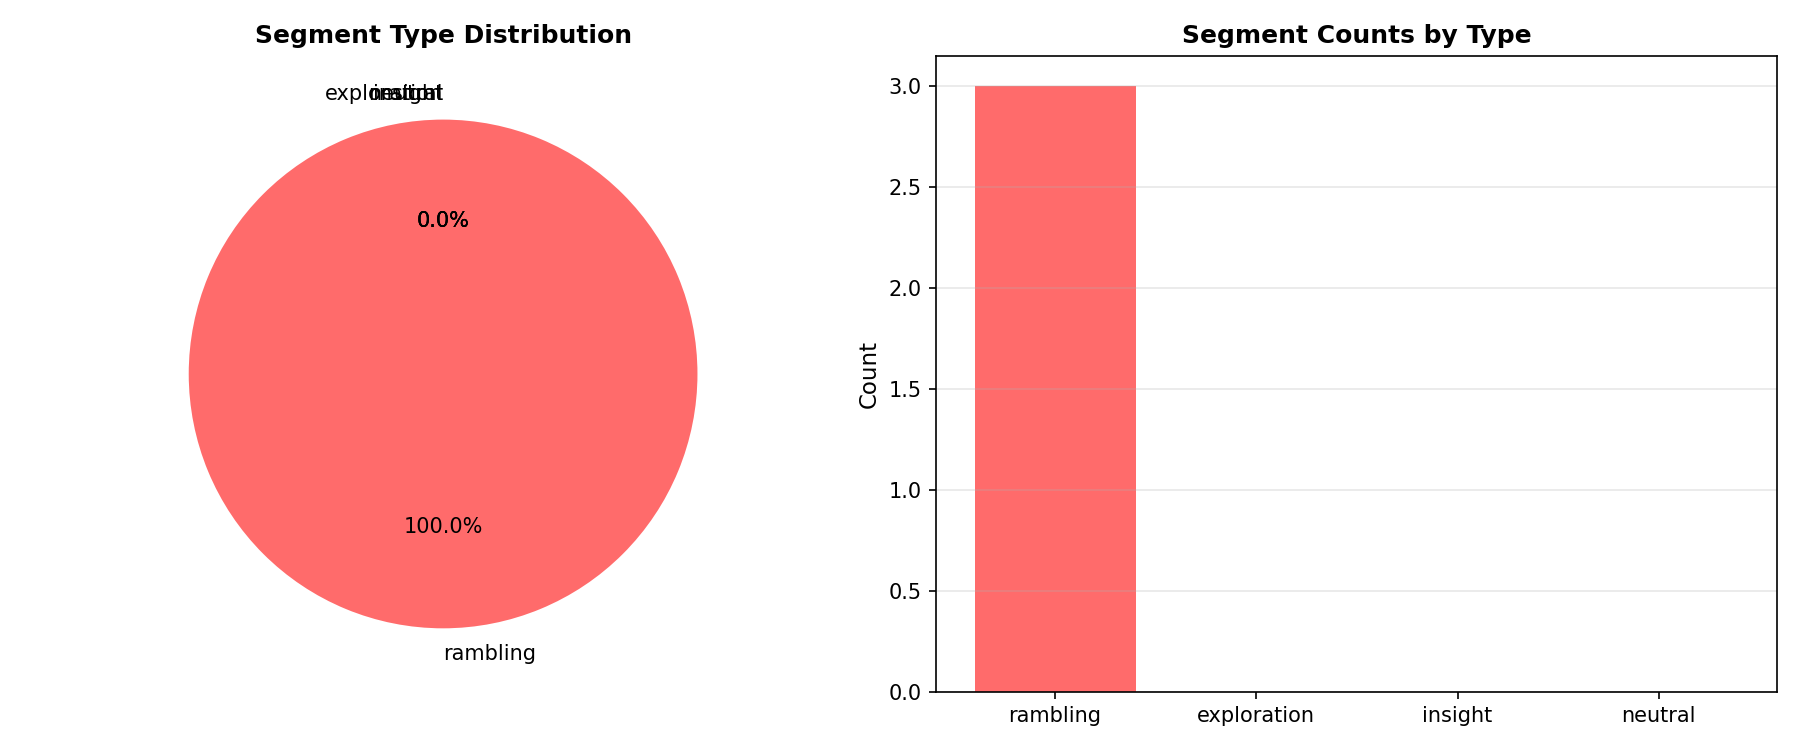
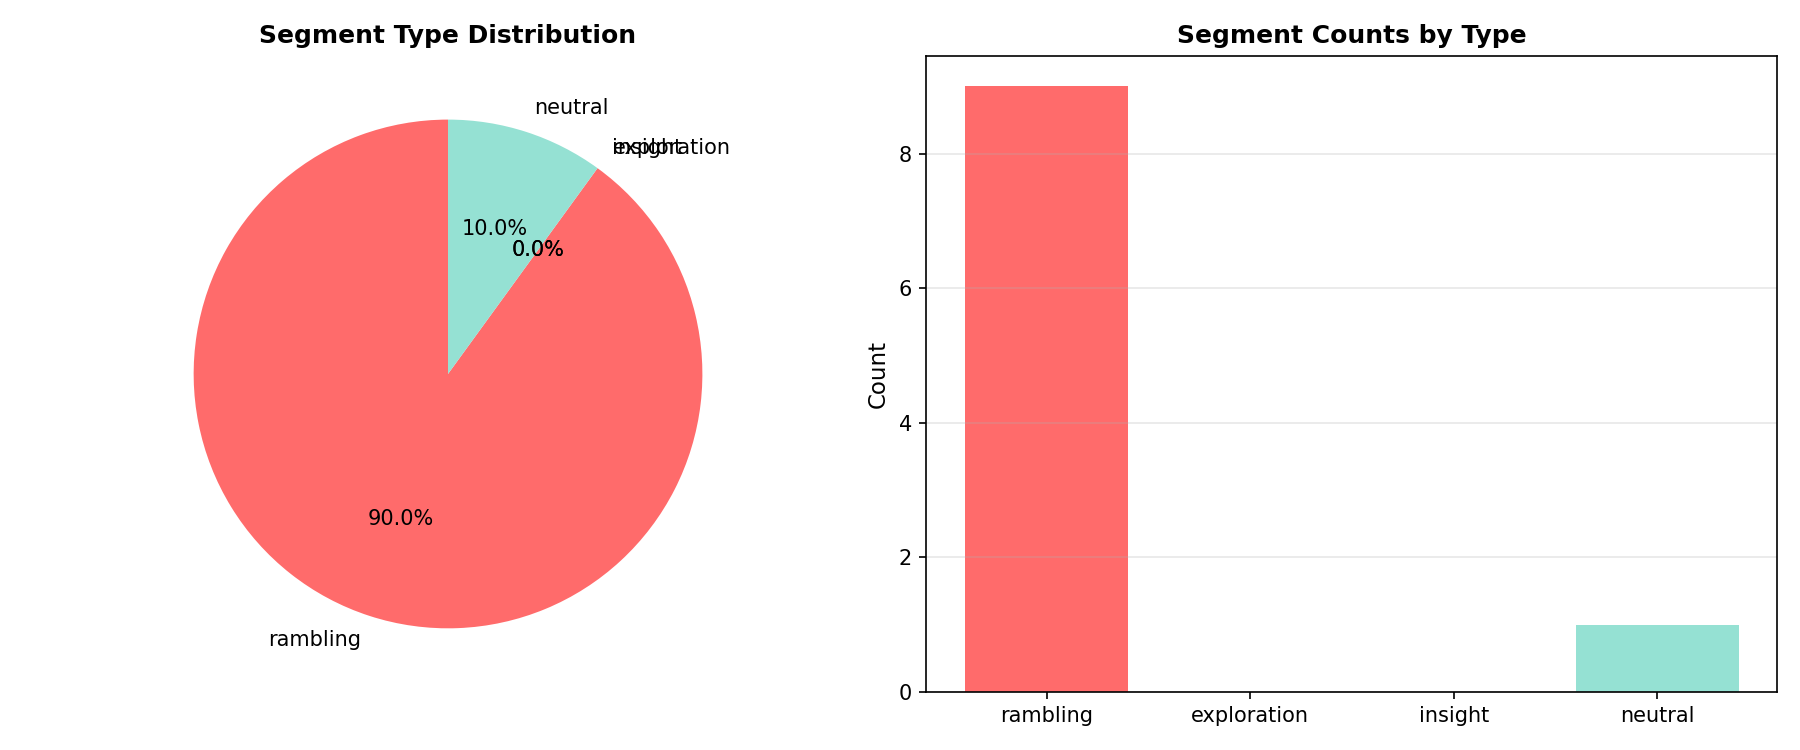
Fix model names, add DeepSeek distilled LLaMA, expand traces to 10 examples, improve visualizations with clear metrics

diff --git a/scripts/analyze_traces.py b/scripts/analyze_traces.py
@@ -78,7 +78,7 @@ def analyze_dataset(traces: List[Dict[str, Any]]) -> None:
         print(f"  {seg_type:12s}: {count:4d} ({pct:5.1f}%)")
 
 
-# Synthetic reasoning traces
+# Synthetic reasoning traces (expanded to 10 examples for better analysis)
 synthetic_traces = [
     {
         "question": "If a baker made 24 loaves of bread and sold 18, how many are left?",
@@ -94,6 +94,41 @@ synthetic_traces = [
         "question": "What is 25% of 80?",
         "reasoning": "25% means 1/4. So I need to find 1/4 of 80. Hmm, let me think about this. 80 ÷ 4 = 20. Or I could calculate it as 80 × 0.25 = 20. Actually, wait, let me reconsider. If 100% is 80, then 25% is a quarter. A quarter of 80 is 20. Thus, 25% of 80 is 20.",
         "answer": "20"
+    },
+    {
+        "question": "Solve: 2x + 3 = 7",
+        "reasoning": "I have the equation 2x + 3 = 7. I need to solve for x. First, subtract 3 from both sides. 2x + 3 - 3 = 7 - 3. So 2x = 4. Now divide both sides by 2. x = 4 ÷ 2 = 2. Let me check: 2×2 + 3 = 4 + 3 = 7. Yes, correct.",
+        "answer": "x = 2"
+    },
+    {
+        "question": "If 5 apples cost $2, how much do 12 apples cost?",
+        "reasoning": "First, find the cost per apple. 5 apples cost $2, so one apple costs $2 ÷ 5 = $0.40. Now, 12 apples would cost 12 × $0.40 = $4.80. Let me double-check the calculation. 12 × 0.40 = 4.80, yes. So the answer is $4.80.",
+        "answer": "$4.80"
+    },
+    {
+        "question": "What is the area of a rectangle with length 8 cm and width 5 cm?",
+        "reasoning": "The area of a rectangle is length × width. So, 8 cm × 5 cm = 40 cm². That's straightforward. Let me confirm: 8 × 5 = 40, yes. The area is 40 square centimeters.",
+        "answer": "40 cm²"
+    },
+    {
+        "question": "If a box contains 24 balls and you take out 9, how many are left?",
+        "reasoning": "There are 24 balls in the box. I take out 9. So I need to subtract. 24 - 9 = 15. Let me count backwards to verify: 24, 23, 22, 21, 20, 19, 18, 17, 16, 15. Yes, 15 balls left.",
+        "answer": "15"
+    },
+    {
+        "question": "Convert 3.5 hours to minutes.",
+        "reasoning": "1 hour = 60 minutes. So 3.5 hours = 3.5 × 60. First, 3 × 60 = 180. Then 0.5 × 60 = 30. So 180 + 30 = 210 minutes. Let me think: 3 hours is 180 minutes, half an hour is 30 minutes, total 210. Yes.",
+        "answer": "210 minutes"
+    },
+    {
+        "question": "What is 15% of 200?",
+        "reasoning": "15% means 15/100 = 0.15. So 0.15 × 200. First, 0.1 × 200 = 20. Then 0.05 × 200 = 10. So 20 + 10 = 30. Alternatively, 15% of 200 is (15/100) × 200 = (15 × 200) / 100 = 3000 / 100 = 30. Yes, 30.",
+        "answer": "30"
+    },
+    {
+        "question": "If you have $50 and spend $27, how much do you have left?",
+        "reasoning": "I start with $50. I spend $27. So I subtract. 50 - 27 = 23. Let me check: 27 + 23 = 50, yes. So I have $23 left. That seems correct.",
+        "answer": "$23"
     },
 ]
 

diff --git a/scripts/poc_harness.py b/scripts/poc_harness.py
@@ -29,11 +29,11 @@ class POCHarness:
     
     # Available model variants for testing
     MODEL_VARIANTS = {
-        'llama3_vanilla': 'meta-llama/Llama-3-8b',
-        'llama3_reasoning': 'microsoft/phi-3-small',  # Placeholder; use actual reasoning model
-        'qwen_vanilla': 'Qwen/Qwen2-7B',
-        'deepseek_r1': 'deepseek-ai/deepseek-r1-distill-qwen-7b',  # If available
-        'mistral': 'mistralai/Mistral-7B-v0.1',
+        'llama3_vanilla': 'meta-llama/Llama-3.1-8B-Instruct',
+        'llama3_reasoning': 'deepseek-ai/deepseek-r1-distill-llama-8b',  # DeepSeek distilled LLaMA
+        'qwen_vanilla': 'Qwen/Qwen2-7B-Instruct',
+        'qwen_reasoning': 'deepseek-ai/deepseek-r1-distill-qwen-7b',
+        'mistral_reasoning': 'mistralai/Mistral-7B-Instruct-v0.3',  # Mistral's instruction-tuned (reasoning-capable)
     }
     
     def __init__(self, model_name: str = "gpt2", variant: str = None, cache_size: int = 512):
@@ -237,7 +237,8 @@ def run_poc(model_variants: List[str] = None, eviction_methods: List[str] = None
         
         # Load model
         if not harness.load_model_and_tokenizer():
-            print(f"Could not load {variant}. Using mock results.")
+            print(f"Could not load {variant}. Using mock results (for testing only).")
+            print("Note: Mock results are placeholders. For real experiments, ensure model access and try again.")
             # Mock results for testing
             for method in eviction_methods:
                 mock_result = POCResult(

diff --git a/MODEL_VARIANTS.md b/MODEL_VARIANTS.md
@@ -8,30 +8,30 @@ Testing both vanilla and reasoning-enabled LLaMA versions reveals:
 ## Model Variants
 
 ### Vanilla Models
-- **LLaMA-3-8B** (`meta-llama/Llama-3-8b`)
+- **LLaMA-3.1-8B-Instruct** (`meta-llama/Llama-3.1-8B-Instruct`)
   - Standard instruction-tuned version
   - Shorter reasoning traces (~100-300 tokens)
   - Good baseline for comparison
 
-- **Qwen-7B** (`Qwen/Qwen2-7B`)
+- **Qwen-7B-Instruct** (`Qwen/Qwen2-7B-Instruct`)
   - Qwen's instruction-tuned version
   - Good multilingual support
   - Comparable trace lengths to LLaMA-3
 
-- **Mistral-7B** (`mistralai/Mistral-7B-v0.1`)
-  - Lightweight but capable
-  - Fast inference
-  - Shorter traces due to design
-
 ### Reasoning-Enabled Models
-- **DeepSeek-R1-Distill-Qwen-7B** (`deepseek-ai/deepseek-r1-distill-qwen-7b`)
-  - Distilled from DeepSeek-R1 (reasoning model)
+- **DeepSeek-R1-Distill-LLaMA-8B** (`deepseek-ai/deepseek-r1-distill-llama-8b`)
+  - DeepSeek-R1 distilled into LLaMA-3.1-8B
   - Longer traces (1k-5k+ tokens)
   - More exploration, self-correction
-  - **Best candidate for KV cache eviction gains**
+  - **High potential for KV cache eviction gains**
 
-- **LLaMA-3-Instruct-Extended** (if available)
-  - LLaMA-3 fine-tuned for reasoning
+- **DeepSeek-R1-Distill-Qwen-7B** (`deepseek-ai/deepseek-r1-distill-qwen-7b`)
+  - DeepSeek-R1 distilled into Qwen-7B
+  - Similar characteristics to LLaMA distilled version
+
+- **Mistral-7B-Instruct-v0.3** (`mistralai/Mistral-7B-Instruct-v0.3`)
+  - Mistral's latest instruction-tuned version
+  - Capable of reasoning tasks
   - Moderate trace length increase
 
 ## Testing Plan
